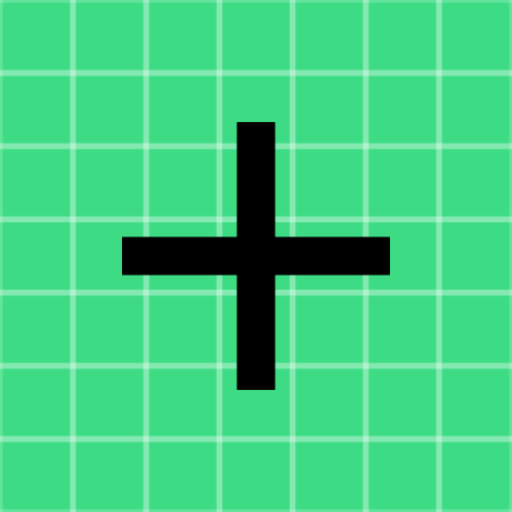
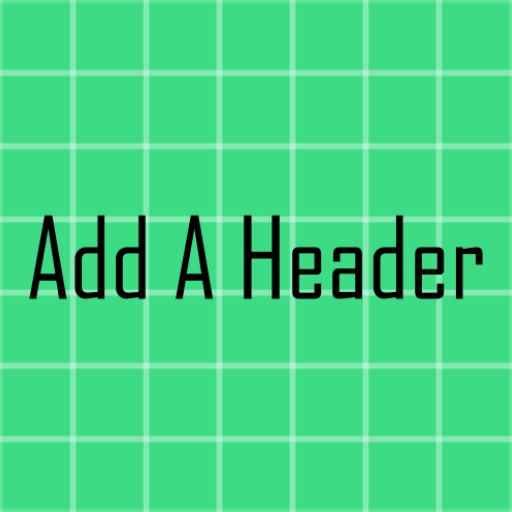
Updates

Changed region(s): [[0.0625, 0.2188, 0.9688, 0.7812]]

diff --git a/app/src/main/java/com/example/labtwo/DataPage.java b/app/src/main/java/com/example/labtwo/DataPage.java
@@ -3,14 +3,28 @@ package com.example.labtwo;
 import androidx.annotation.Nullable;
 import androidx.appcompat.app.AlertDialog;
 import androidx.appcompat.app.AppCompatActivity;
+import androidx.core.app.ActivityCompat;
+import androidx.core.content.ContextCompat;
 import androidx.recyclerview.widget.LinearLayoutManager;
 import androidx.recyclerview.widget.RecyclerView;
 
+import android.Manifest;
+import android.app.Activity;
+import android.content.Context;
 import android.content.DialogInterface;
 import android.content.Intent;
+import android.content.SharedPreferences;
+import android.content.pm.PackageManager;
 import android.database.Cursor;
+import android.graphics.Bitmap;
+import android.graphics.BitmapFactory;
 import android.net.Uri;
 import android.os.Bundle;
+import android.os.Environment;
+import android.preference.PreferenceManager;
+import android.provider.ContactsContract;
+import android.provider.MediaStore;
+import android.util.Log;
 import android.view.Menu;
 import android.view.MenuInflater;
 import android.view.MenuItem;
@@ -22,7 +36,12 @@ import android.widget.TextView;
 
 import com.google.android.material.floatingactionbutton.FloatingActionButton;
 
+
+import java.io.File;
+import java.net.URI;
 import java.util.ArrayList;
+import java.util.Map;
+import java.util.Set;
 
 
 public class DataPage extends AppCompatActivity {
@@ -34,6 +53,16 @@ public class DataPage extends AppCompatActivity {
     DatabaseHelper db;
     ArrayList<String> id, show_name, ep_watched, ep_total, ratings;
     CustomAdapter customAdapter;
+
+    ImageButton header;
+    private static final int RESULT_LOAD_IMAGE = 2;
+    Uri image = null;
+
+    SharedPreferences myPrefs;
+    SharedPreferences.Editor editor;
+
+    Boolean check;
+    String string;
 
 
 
@@ -61,13 +90,64 @@ public class DataPage extends AppCompatActivity {
         ep_watched = new ArrayList<>();
         ep_total = new ArrayList<>();
         ratings = new ArrayList<>();
+        header = findViewById(R.id.imageButton2);
+
+
+
+
 
         storeDataInArrays();
+
+        myPrefs = getApplicationContext().getSharedPreferences("MyPref", 0);
+        editor = myPrefs.edit();
+
+
+
+        if (ContextCompat.checkSelfPermission(
+                DataPage.this,  Manifest.permission.READ_EXTERNAL_STORAGE) ==
+                PackageManager.PERMISSION_GRANTED) {
+
+
+
+            String string = myPrefs.getString("image", null);
+            check = myPrefs.contains("image");
+            if (check) {
+                //imageView.setImageURI(uri);
+
+
+                header.setImageURI(Uri.parse(string));
+            }
+        }
 
         customAdapter = new CustomAdapter(DataPage.this, this, id, show_name, ep_watched, ep_total, ratings);
         recyclerView.setAdapter(customAdapter);
         recyclerView.setLayoutManager(new LinearLayoutManager(DataPage.this));
+
+        header.setOnClickListener(new View.OnClickListener() {
+            @Override
+            public void onClick(View v) {
+                //imageButton.setImageResource(R.drawable.bg1);
+                if (ContextCompat.checkSelfPermission(
+                        DataPage.this,  Manifest.permission.READ_EXTERNAL_STORAGE) ==
+                        PackageManager.PERMISSION_GRANTED) {
+
+
+                    Intent gallery = new Intent(Intent.ACTION_OPEN_DOCUMENT, MediaStore.Images.Media.EXTERNAL_CONTENT_URI);
+                    startActivityForResult(gallery, RESULT_LOAD_IMAGE);
+                } else {
+                    // You can directly ask for the permission.
+                    ActivityCompat.requestPermissions(DataPage.this,
+                            new String[] { Manifest.permission.READ_EXTERNAL_STORAGE},
+                            1);
+                }
+
+
+
+            }
+        });
     }
+
+
 
     @Override
     protected void onActivityResult(int requestCode, int resultCode, @Nullable Intent data) {
@@ -76,11 +156,16 @@ public class DataPage extends AppCompatActivity {
             recreate();
         }
         if(requestCode == 2 && resultCode == RESULT_OK && data != null) {
-            Uri image = data.getData();
-            CustomAdapter.getIB().setImageURI(image);
+            image = data.getData();
+            header.setImageURI(image);
+            editor.putString("image", image.toString());
+            editor.commit();
+
+
         }
 
     }
+
 
     void storeDataInArrays(){
         Cursor cursor = db.readAllData();

diff --git a/app/src/main/java/com/example/labtwo/CustomAdapter.java b/app/src/main/java/com/example/labtwo/CustomAdapter.java
@@ -1,10 +1,13 @@
 package com.example.labtwo;
 
+import android.Manifest;
 import android.app.Activity;
 import android.content.Context;
 import android.content.Intent;
+import android.content.pm.PackageManager;
 import android.net.Uri;
 import android.os.Build;
+import android.provider.ContactsContract;
 import android.provider.MediaStore;
 import android.util.Log;
 import android.view.LayoutInflater;
@@ -17,6 +20,8 @@ import android.widget.TextView;
 
 import androidx.annotation.NonNull;
 import androidx.annotation.RequiresApi;
+import androidx.core.app.ActivityCompat;
+import androidx.core.content.ContextCompat;
 import androidx.recyclerview.widget.RecyclerView;
 
 import java.util.ArrayList;
@@ -25,8 +30,7 @@ public class CustomAdapter extends RecyclerView.Adapter<CustomAdapter.MyViewHold
     private Context context;
     private Activity activity;
     private ArrayList id, show_name, ep_watched, ep_total, ratings;
-    public static ImageButton imageButton;
-    private static final int RESULT_LOAD_IMAGE = 2;
+
 
     CustomAdapter(Activity activity, Context context, ArrayList id, ArrayList show_name, ArrayList ep_watched,
                   ArrayList ep_total, ArrayList ratings){
@@ -40,16 +44,12 @@ public class CustomAdapter extends RecyclerView.Adapter<CustomAdapter.MyViewHold
 
     }
 
-    public static ImageButton getIB() {
-        return imageButton;
-    }
 
     @NonNull
     @Override
     public MyViewHolder onCreateViewHolder(@NonNull ViewGroup parent, int viewType) {
         LayoutInflater inflater = LayoutInflater.from(context);
         View view = inflater.inflate(R.layout.one_row, parent, false);
-        imageButton = view.findViewById(R.id.imageButton);
         return new MyViewHolder(view);
 
 
@@ -66,15 +66,6 @@ public class CustomAdapter extends RecyclerView.Adapter<CustomAdapter.MyViewHold
         holder.ep_watched_txt.setText(String.valueOf(ep_watched.get(position)));
         holder.ep_total_txt.setText(String.valueOf(ep_total.get(position)));
         holder.ratings_txt.setText(String.valueOf(ratings.get(position)));
-        imageButton.setOnClickListener(new View.OnClickListener() {
-            @Override
-            public void onClick(View v) {
-                    //imageButton.setImageResource(R.drawable.bg1);
-                    Intent gallery = new Intent(Intent.ACTION_PICK, MediaStore.Images.Media.EXTERNAL_CONTENT_URI);
-                    ((Activity) context).startActivityForResult(gallery, RESULT_LOAD_IMAGE);
-
-            }
-        });
         //to update the information
         holder.dataLayout.setOnClickListener(new View.OnClickListener() {
             @Override
@@ -91,10 +82,6 @@ public class CustomAdapter extends RecyclerView.Adapter<CustomAdapter.MyViewHold
 
     }
 
-    public void onActivityResult(int requestCode, int resultCode, Intent data) {
-        Log.d("MyAdapter", "onActivityResult");
-
-    }
 
 
     @Override

diff --git a/app/src/main/java/com/example/labtwo/MainActivity.java b/app/src/main/java/com/example/labtwo/MainActivity.java
@@ -3,12 +3,15 @@ package com.example.labtwo;
 import androidx.appcompat.app.AppCompatActivity;
 
 import android.content.Intent;
+import android.content.SharedPreferences;
 import android.os.Bundle;
 import android.view.View;
 import android.widget.Button;
 
 public class MainActivity extends AppCompatActivity {
     Button start;
+
+
 
     @Override
     protected void onCreate(Bundle savedInstanceState) {
@@ -23,6 +26,8 @@ public class MainActivity extends AppCompatActivity {
 
             }
         });
+
+
     }
 
 }
